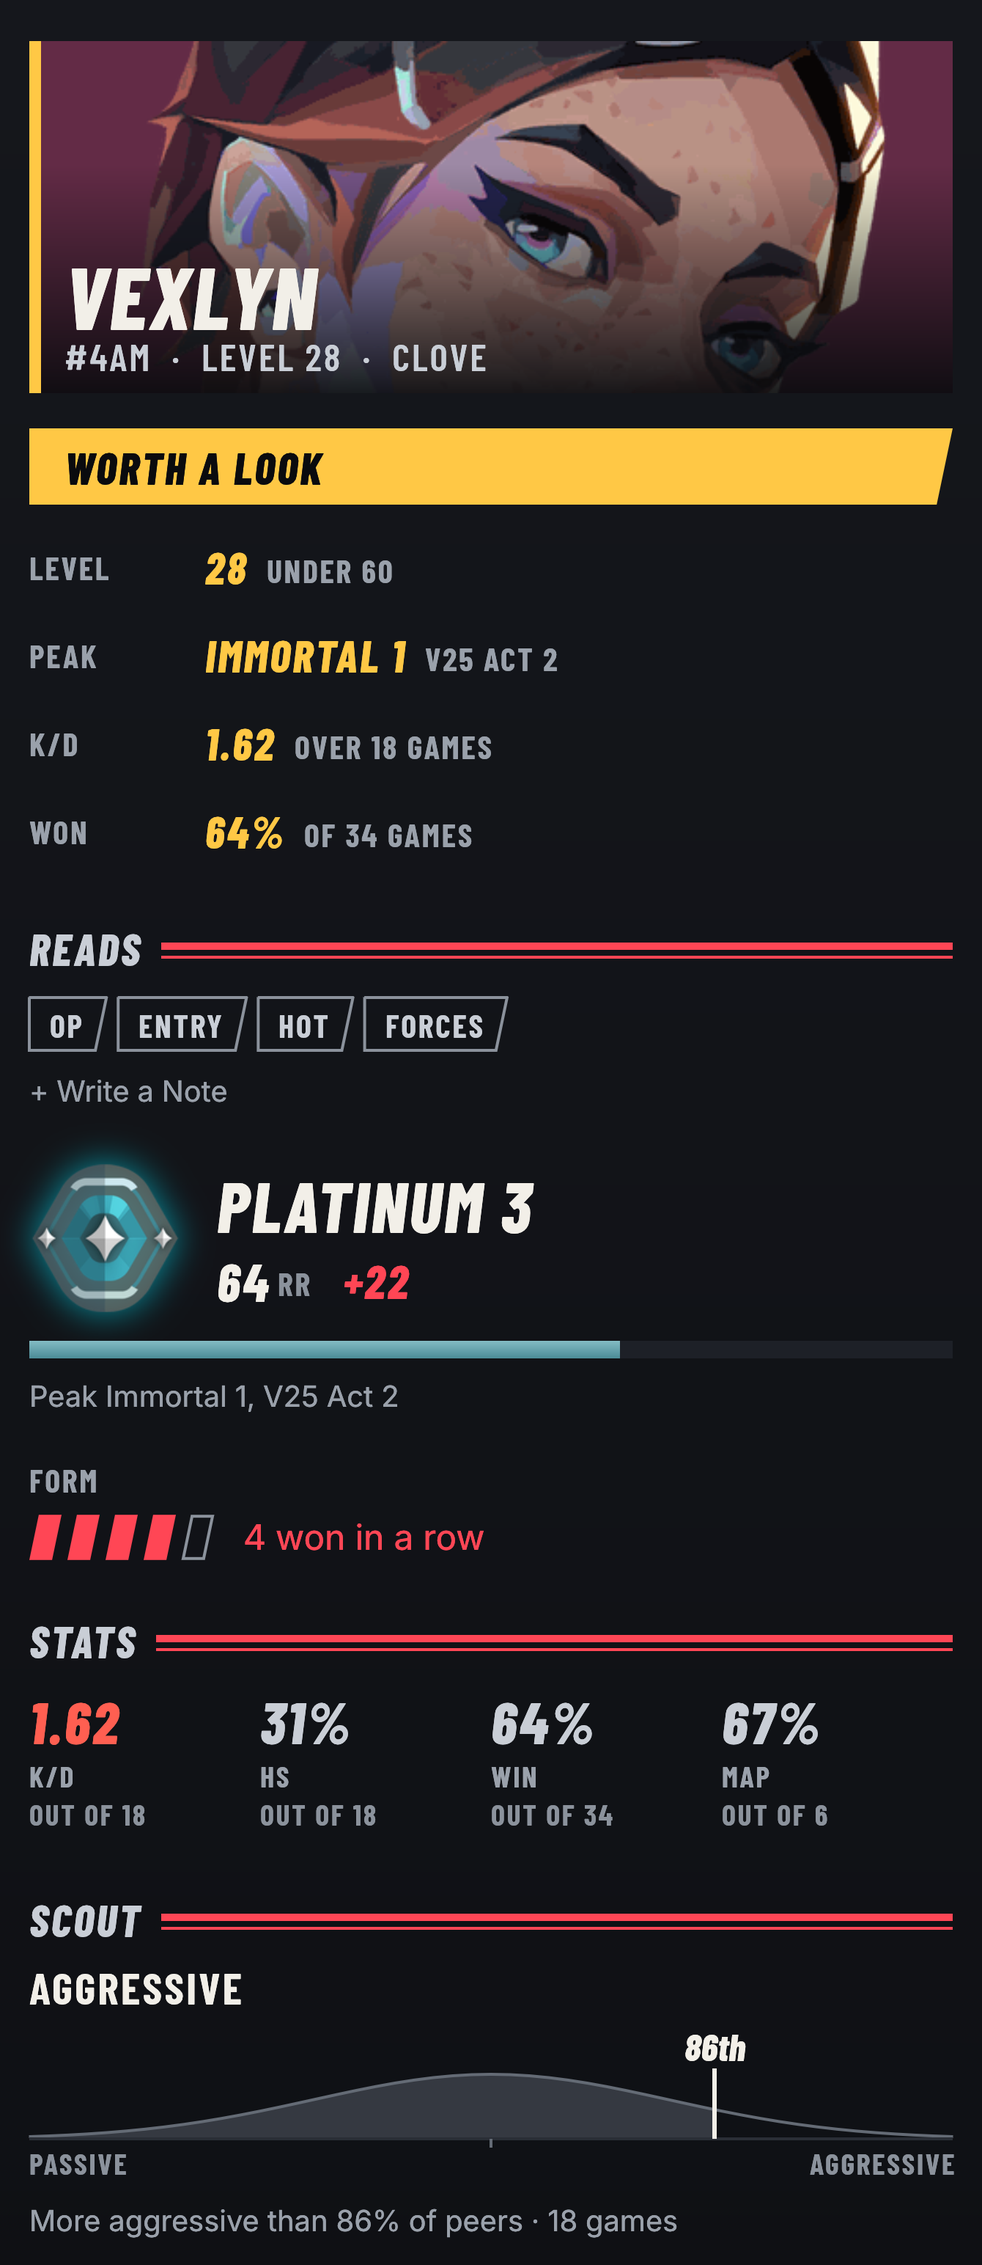
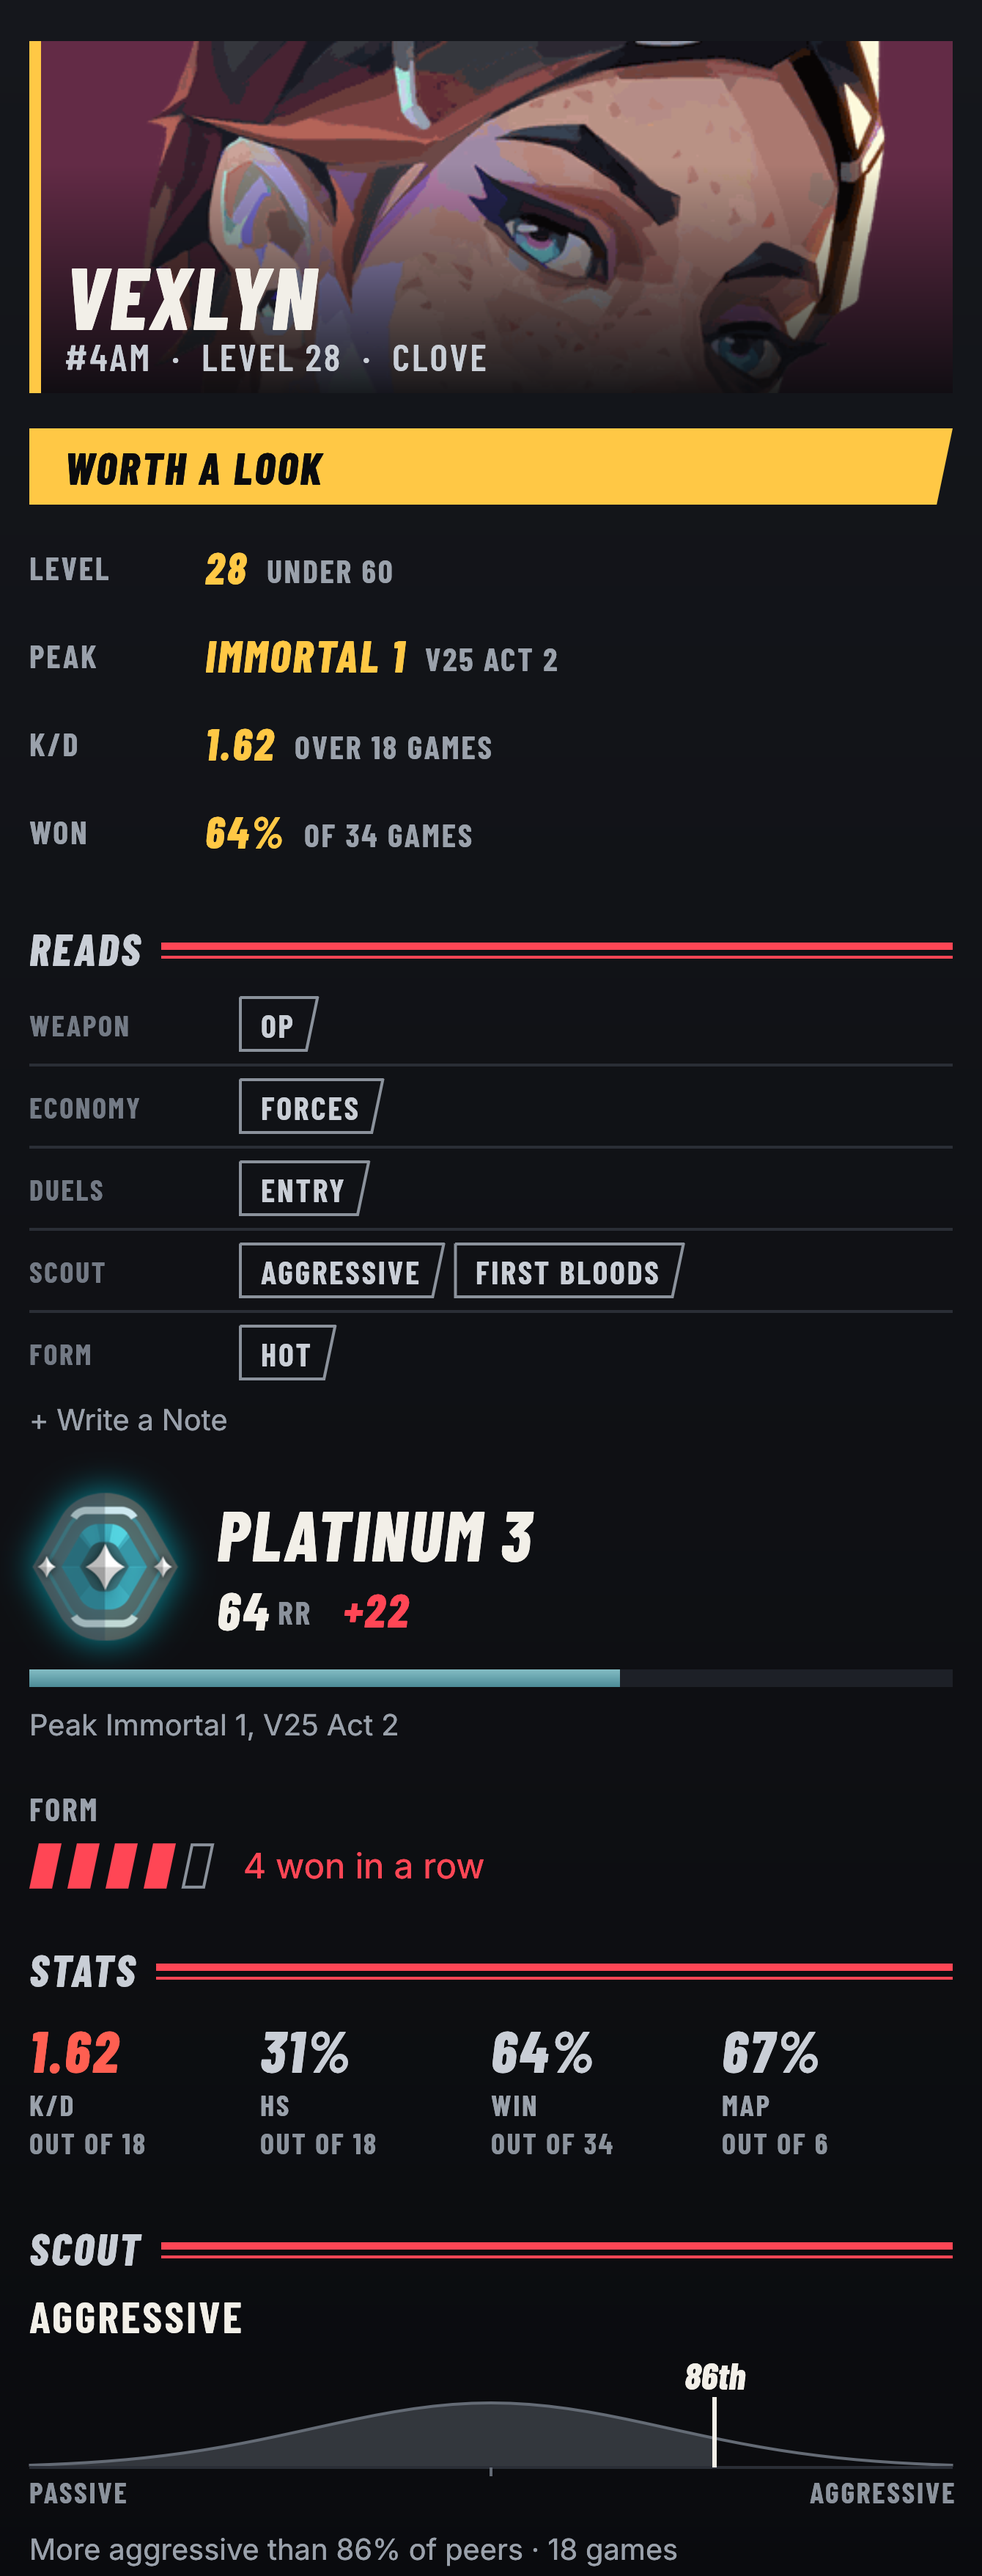
feat: group the panel's reads into a row per kind
With Scout's tags a player can carry a dozen reads, and one run of chips
was hard to take in. Each kind now gets its own labelled row, and kinds
with nothing to say don't appear. The site's pictures are redrawn, which
also brings in the actual RR from the last release.

Changed region(s): [[0.0, 0.0, 0.9791, 1.0]]

diff --git a/docs/index.html b/docs/index.html
@@ -580,7 +580,7 @@ h1 .w { gap: 0.05em; }
     <div class="wrap">
       <div class="head cutin"><h2 id="panel-h"><span class="vh">Peak, Form and Reads</span><span class="rn" aria-hidden="true"><span class="w"><i class="t v3" style="--s:1.05;--r:-6.5deg;--y:-0.03em">P</i><i class="t v1" style="--s:0.89;--r:-5.3deg;--y:-0.03em">E</i><i class="t v3" style="--s:0.87;--r:-5.0deg;--y:-0.05em">A</i><i class="t v7" style="--s:0.87;--r:-1.8deg;--y:0.06em">K</i><i class="t tp">,</i></span> <span class="w"><i class="t v3" style="--s:1.03;--r:0.5deg;--y:-0.05em">F</i><i class="t v8" style="--s:1.06;--r:-3.5deg;--y:0.02em">O</i><i class="t v7" style="--s:0.94;--r:3.4deg;--y:0.02em">r</i><i class="t v1" style="--s:1.00;--r:-2.8deg;--y:0.04em">M</i></span> <span class="w"><i class="t v6" style="--s:0.89;--r:-2.5deg;--y:0.03em">A</i><i class="t v5" style="--s:1.04;--r:-0.1deg;--y:0.04em">N</i><i class="t v7" style="--s:0.96;--r:-3.1deg;--y:0.00em">D</i></span> <span class="w"><i class="t v6" style="--s:1.05;--r:-1.4deg;--y:-0.03em">R</i><i class="t v7" style="--s:0.91;--r:-5.2deg;--y:0.02em">e</i><i class="t v3" style="--s:1.08;--r:-0.9deg;--y:0.01em">A</i><i class="t v1" style="--s:0.94;--r:6.5deg;--y:0.06em">D</i><i class="t v3" style="--s:0.96;--r:-2.8deg;--y:-0.06em">S</i></span></span></h2></div>
       <figure class="shot back panel">
-        <div class="px"><img src="assets/shots/rung-panel-800.webp" srcset="assets/shots/rung-panel-800.webp 1x, assets/shots/rung-panel-1340.webp 2x" width="670" height="1544" loading="lazy" decoding="async" alt="A player's panel in Overseer: their card, a Worth a Look flag listing their level, their peak and when they reached it, their K/D and win rate, reads, Platinum 3 with RR, four wins in a row, their stats, and Scout placing them as more aggressive than 86% of Clove players at their rank"></div>
+        <div class="px"><img src="assets/shots/rung-panel-800.webp" srcset="assets/shots/rung-panel-800.webp 1x, assets/shots/rung-panel-1340.webp 2x" width="670" height="1756" loading="lazy" decoding="async" alt="A player's panel in Overseer: their card, a Worth a Look flag listing their level, their peak and when they reached it, their K/D and win rate, reads, Platinum 3 with RR, four wins in a row, their stats, and Scout placing them as more aggressive than 86% of Clove players at their rank"></div>
         <figcaption>Vexlyn's panel, flagged Worth a Look.</figcaption>
         <span class="call star warn" aria-hidden="true">Worth a Look</span>
       </figure>

diff --git a/crates/overseer-app/src/panel.rs b/crates/overseer-app/src/panel.rs
@@ -821,8 +821,8 @@ const COPIED: &str = "overseer-copied";
 /// How long the footer says a copy worked, in seconds.
 const SAID: f64 = 1.8;
 
-/// Every tag the backend worked out, as wrapping chips with the reason on
-/// hover.
+/// Every tag the backend worked out, a row per kind with its name on the
+/// left, so a long list reads in pieces. The reason shows on hover.
 fn reads(ui: &mut Ui, player: &Player, side: Side) {
     let tags: Vec<(&str, &overseer_core::AutoTag)> = player
         .auto_tags
@@ -833,32 +833,37 @@ fn reads(ui: &mut Ui, player: &Player, side: Side) {
         return;
     }
     heading(ui, "Reads");
-    let font = Face::Display.at(size::MICRO + 1.0);
-    let left = ui.max_rect().left() + space::LG;
-    let right = ui.max_rect().right() - space::LG;
-    let mut spots = Vec::with_capacity(tags.len());
-    let (mut x, mut row) = (left, 0.0_f32);
-    for (tag, whole) in tags {
-        let wide = 2.0f32.mul_add(space::MD, caps_width(ui.painter(), tag, font.clone()));
-        if x + wide > right && x > left {
-            x = left;
-            row += 1.0;
-        }
-        spots.push((row, x, wide, tag, whole));
-        x += wide + space::SM;
-    }
-    let (rect, _response) = ui.allocate_exact_size(
-        vec2(ui.available_width(), (row + 1.0) * CHIP_ROW),
-        Sense::hover(),
+    let laid = rows(
+        ui.painter(),
+        &kinds(&tags),
+        ui.available_width() - space::LG,
     );
+    let (rect, _response) =
+        ui.allocate_exact_size(vec2(ui.available_width(), laid.height), Sense::hover());
+    let shift = vec2(rect.left() + space::LG, rect.top());
     let painter = ui.painter().clone();
-    let mut chips = Vec::with_capacity(spots.len());
-    let mut on = None;
-    for (row, x, wide, tag, whole) in spots {
-        let chip = Rect::from_min_size(
-            pos2(x, row.mul_add(CHIP_ROW, rect.top()) + 2.0),
-            vec2(wide, 18.0),
+    for y in &laid.rules {
+        painter.hline(
+            rect.left() + space::LG..=rect.right() - space::LG,
+            rect.top() + y,
+            egui::Stroke::new(1.0, colour::LINE),
         );
+    }
+    for (at, kind) in &laid.labels {
+        let _label = caps_text(
+            &painter,
+            *at + shift,
+            Align2::LEFT_CENTER,
+            kind,
+            Face::Display.at(size::MICRO),
+            colour::HINT,
+        );
+    }
+    let font = Face::Display.at(size::MICRO + 1.0);
+    let mut chips = Vec::with_capacity(laid.chips.len());
+    let mut on = None;
+    for (chip, tag, whole) in laid.chips {
+        let chip = chip.translate(shift);
         if ui
             .interact(chip, ui.id().with(("read", tag)), Sense::hover())
             .hovered()
@@ -885,6 +890,72 @@ fn reads(ui: &mut Ui, player: &Player, side: Side) {
             board::tip::auto(ui, whole, board::paint::win(side));
         });
     }
+}
+
+/// One kind of tag and its words, in the order the row shows them.
+type Group<'a> = (&'a str, Vec<(&'a str, &'a overseer_core::AutoTag)>);
+
+/// The tags in runs of one kind each. They come sorted by kind, so a run
+/// ends where the kind changes, and a kind with no tags has no run.
+fn kinds<'a>(tags: &[(&'a str, &'a overseer_core::AutoTag)]) -> Vec<Group<'a>> {
+    let mut out: Vec<Group<'a>> = Vec::new();
+    for &(tag, whole) in tags {
+        let kind = whole.kind.as_deref().unwrap_or("Other");
+        match out.last_mut() {
+            Some((last, words)) if last.eq_ignore_ascii_case(kind) => words.push((tag, whole)),
+            _ => out.push((kind, vec![(tag, whole)])),
+        }
+    }
+    out
+}
+
+/// Where the Reads rows go, measured from their top left corner.
+#[derive(Default)]
+struct Laid<'a> {
+    /// Each chip, with its word and the tag behind it.
+    chips: Vec<(Rect, &'a str, &'a overseer_core::AutoTag)>,
+    /// Each kind's name, by its left middle.
+    labels: Vec<(egui::Pos2, &'a str)>,
+    /// The lines between kinds, by their height.
+    rules: Vec<f32>,
+    /// How tall the rows are.
+    height: f32,
+}
+
+/// How wide the kind names' column is.
+const KIND_COLUMN: f32 = 72.0;
+
+/// One row per kind: its name on the left, its words wrapping beside it and
+/// a line between kinds.
+fn rows<'a>(painter: &egui::Painter, groups: &[Group<'a>], right: f32) -> Laid<'a> {
+    let font = Face::Display.at(size::MICRO + 1.0);
+    let mut laid = Laid::default();
+    let mut y = 0.0;
+    for (at, (kind, words)) in groups.iter().enumerate() {
+        if at > 0 {
+            laid.rules.push(y + 3.0);
+            y += 6.0;
+        }
+        laid.labels.push((pos2(0.0, y + 11.0), kind));
+        let (mut x, mut row) = (KIND_COLUMN, 0.0_f32);
+        for &(tag, whole) in words {
+            let wide = 2.0f32.mul_add(space::MD, caps_width(painter, tag, font.clone()));
+            if x + wide > right && x > KIND_COLUMN {
+                x = KIND_COLUMN;
+                row += 1.0;
+            }
+            let top = row.mul_add(CHIP_ROW, y) + 2.0;
+            laid.chips.push((
+                Rect::from_min_size(pos2(x, top), vec2(wide, 18.0)),
+                tag,
+                whole,
+            ));
+            x += wide + space::SM;
+        }
+        y = (row + 1.0).mul_add(CHIP_ROW, y);
+    }
+    laid.height = y;
+    laid
 }
 
 /// The scouting brief: at most two lines that earned their place, each the
@@ -2117,6 +2188,23 @@ mod tests {
 
     use super::{Notes, held};
     use crate::notes::Note;
+
+    /// Each kind the player has gets one row, whatever case it comes in, and
+    /// a kind they have no tag of gets none.
+    #[test]
+    fn reads_take_a_row_per_kind_they_have() {
+        let tag = |kind: &str| overseer_core::AutoTag {
+            kind: Some(kind.to_owned()),
+            ..overseer_core::AutoTag::default()
+        };
+        let (op, marshal, hot) = (tag("weapon"), tag("Weapon"), tag("Form"));
+        let tags = [("op", &op), ("marshal", &marshal), ("hot", &hot)];
+        let rows: Vec<(&str, usize)> = super::kinds(&tags)
+            .iter()
+            .map(|(kind, words)| (*kind, words.len()))
+            .collect();
+        assert_eq!(rows, [("weapon", 2), ("Form", 1)]);
+    }
 
     /// A count splitting from its word left "games" alone on a row.
     #[test]

diff --git a/crates/overseer-app/src/shot/site.rs b/crates/overseer-app/src/shot/site.rs
@@ -330,16 +330,26 @@ fn vexlyn(p: &mut Player) {
             )
         },
         tag(
-            "entry",
-            "In the round's first fight 97 times in 412 rounds, won 61",
-            "Duels",
-        ),
-        tag("hot", "Won their last 4", "Form"),
-        tag(
             "forces",
             "Bought a gun after 6 of 8 lost pistol rounds",
             "Economy",
         ),
+        tag(
+            "entry",
+            "In the round's first fight 97 times in 412 rounds, won 61",
+            "Duels",
+        ),
+        tag(
+            "aggressive",
+            "Takes fights sooner than 89% of peers",
+            "Scout",
+        ),
+        tag(
+            "first bloods",
+            "Opens with a kill more than 93% of peers",
+            "Scout",
+        ),
+        tag("hot", "Won their last 4", "Form"),
     ];
     p.scout = Some(scout());
     p.brief = all_figures();
@@ -600,7 +610,7 @@ fn shots() -> Vec<(&'static str, Vec2, Shot)> {
     vec![
         ("board", vec2(1600.0, 980.0), board()),
         // The same board, tall enough for the whole of Vexlyn's panel.
-        ("panel", vec2(1600.0, 1500.0), board()),
+        ("panel", vec2(1600.0, 1000.0), board()),
         (
             "pregame",
             vec2(1600.0, 955.0),

diff --git a/crates/overseer-app/src/app/mod.rs b/crates/overseer-app/src/app/mod.rs
@@ -1782,7 +1782,7 @@ mod tests {
         let spots = [
             ("NeonLock#VAL", (200.0, 186.0), "an enemy's row"),
             ("Day#9932", (191.0, 601.0), "your own row"),
-            ("Day#9932", (882.0, 257.0), "the panel's reads"),
+            ("Day#9932", (954.0, 257.0), "the panel's reads"),
             ("Day#9932", (880.0, 505.0), "a stat"),
         ];
         for (name, (x, y), what) in spots {
